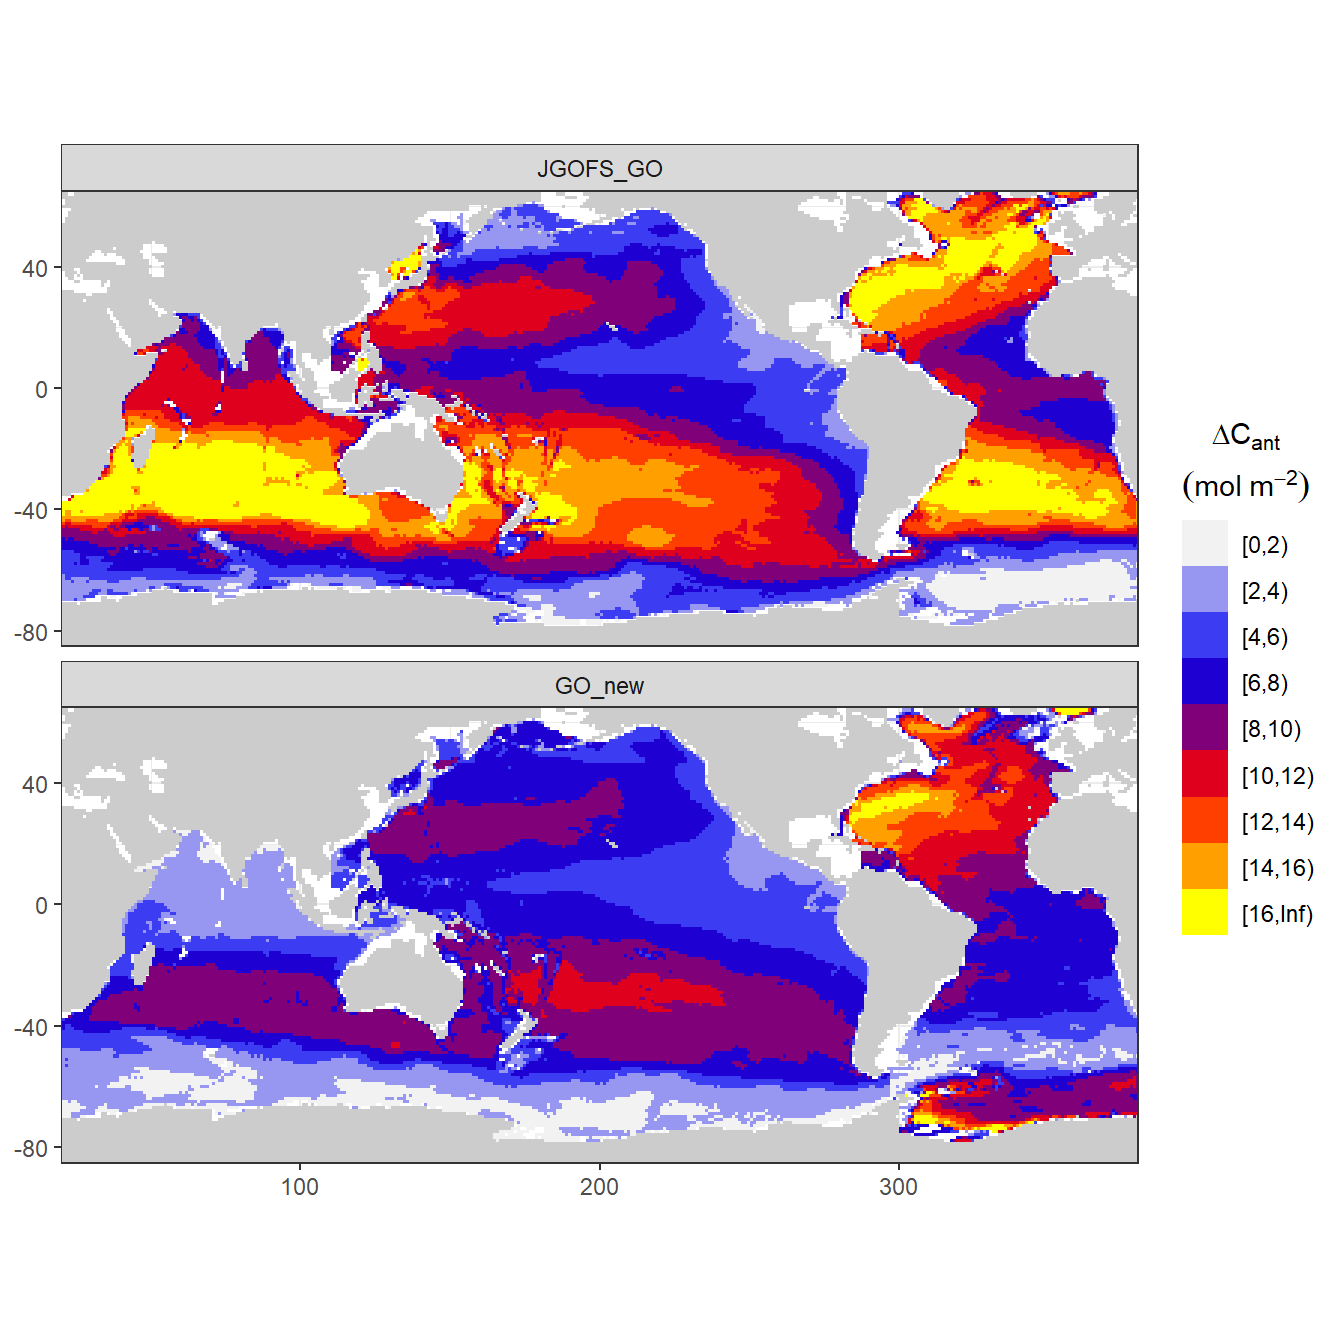
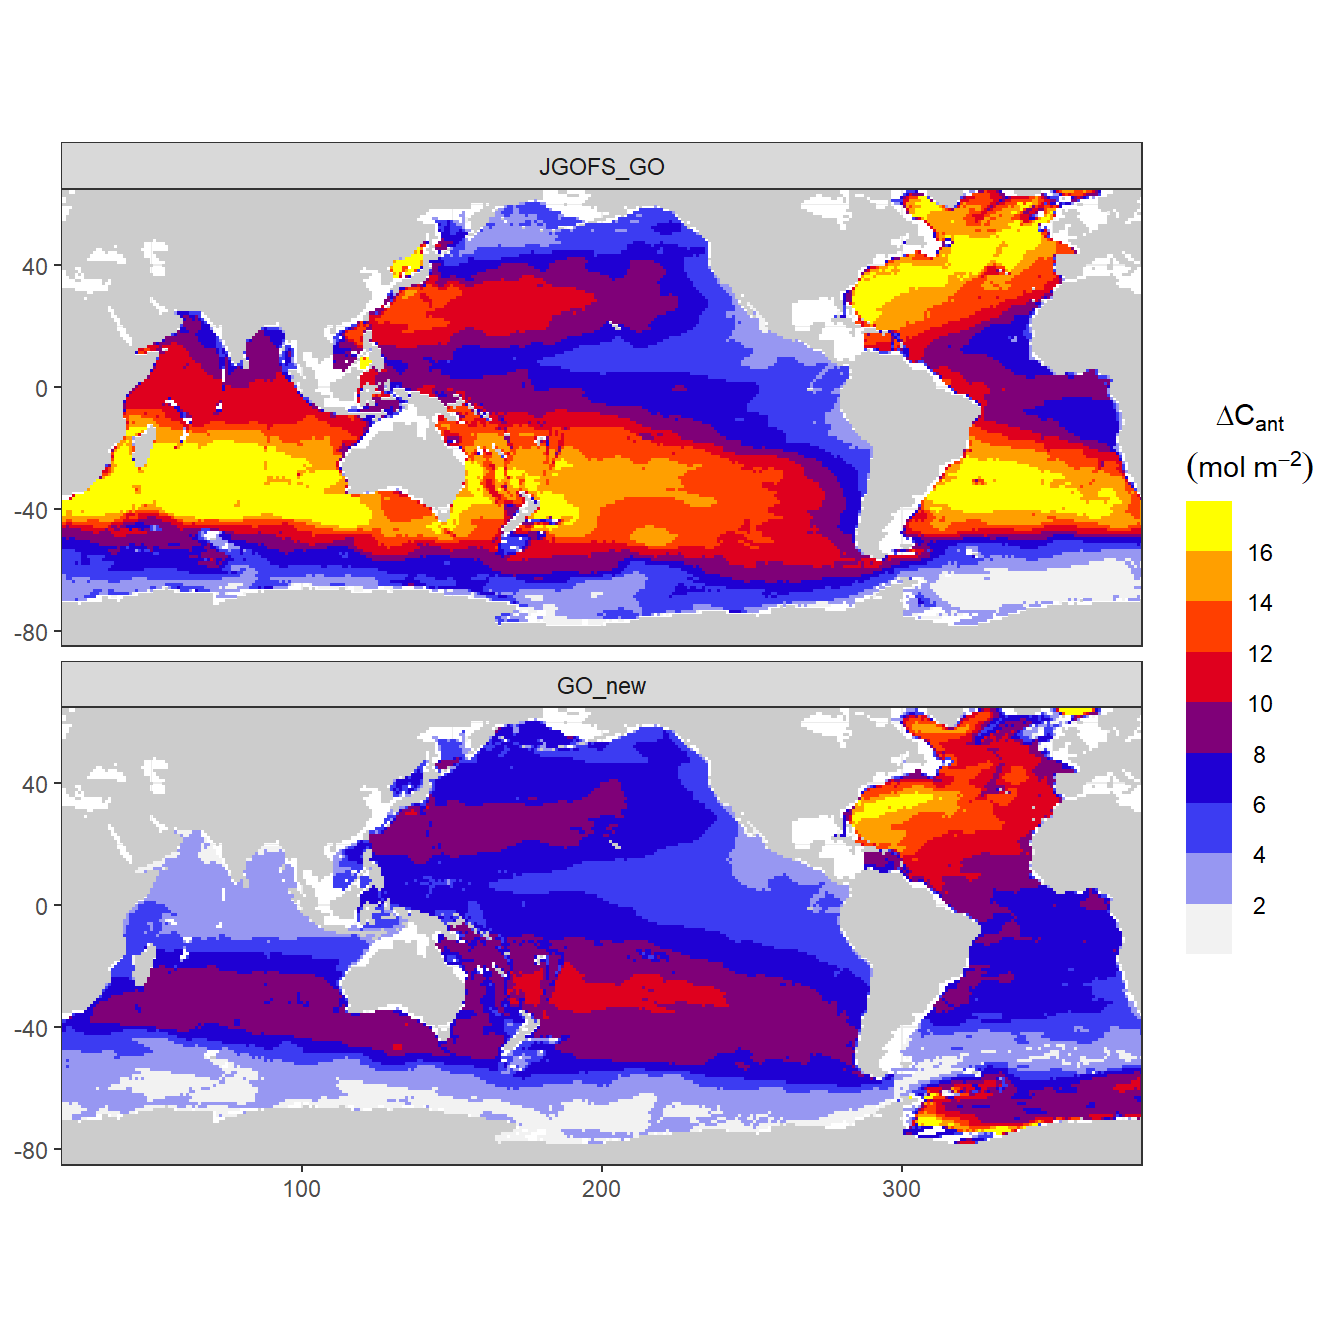
Build site.

diff --git a/docs/analysis_this_study.html b/docs/analysis_this_study.html
@@ -625,16 +625,16 @@ This reproducible <a href="http://rmarkdown.rstudio.com">R Markdown</a> analysis
 <div class="panel panel-default">
 <div class="panel-heading">
 <p class="panel-title">
-<a data-toggle="collapse" data-parent="#workflowr-checks" href="#strongRepositoryversionstrongahrefhttpsgithubcomjensdanielmuellerCanteMLRtree63e987da5e12837ca6cfa503c15f67d6005f041etargetblank63e987da"> <span class="glyphicon glyphicon-ok text-success" aria-hidden="true"></span> <strong>Repository version:</strong> <a href="https://github.com/jens-daniel-mueller/Cant_eMLR/tree/63e987da5e12837ca6cfa503c15f67d6005f041e" target="_blank">63e987d</a> </a>
+<a data-toggle="collapse" data-parent="#workflowr-checks" href="#strongRepositoryversionstrongahrefhttpsgithubcomjensdanielmuellerCanteMLRtree29097d18119f47fddc03a43ccea4d46ee0e6c73dtargetblank29097d1a"> <span class="glyphicon glyphicon-ok text-success" aria-hidden="true"></span> <strong>Repository version:</strong> <a href="https://github.com/jens-daniel-mueller/Cant_eMLR/tree/29097d18119f47fddc03a43ccea4d46ee0e6c73d" target="_blank">29097d1</a> </a>
 </p>
 </div>
[2 lines of base64/hex data omitted]
 <div class="panel-body">
 <p>
 Great! You are using Git for version control. Tracking code development and connecting the code version to the results is critical for reproducibility.
 </p>
 <p>
-The results in this page were generated with repository version <a href="https://github.com/jens-daniel-mueller/Cant_eMLR/tree/63e987da5e12837ca6cfa503c15f67d6005f041e" target="_blank">63e987d</a>. See the <em>Past versions</em> tab to see a history of the changes made to the R Markdown and HTML files.
+The results in this page were generated with repository version <a href="https://github.com/jens-daniel-mueller/Cant_eMLR/tree/29097d18119f47fddc03a43ccea4d46ee0e6c73d" target="_blank">29097d1</a>. See the <em>Past versions</em> tab to see a history of the changes made to the R Markdown and HTML files.
 </p>
 <p>
 Note that you need to be careful to ensure that all relevant files for the analysis have been committed to Git prior to generating the results (you can use <code>wflow_publish</code> or <code>wflow_git_commit</code>). workflowr only checks the R Markdown file, but you know if there are other scripts or data files that it depends on. Below is the status of the Git repository when the results were generated:
@@ -691,6 +691,40 @@ Message
 </tr>
 </thead>
 <tbody>
+<tr>
+<td>
+Rmd
+</td>
+<td>
+<a href="https://github.com/jens-daniel-mueller/Cant_eMLR/blob/29097d18119f47fddc03a43ccea4d46ee0e6c73d/analysis/analysis_this_study.Rmd" target="_blank">29097d1</a>
+</td>
+<td>
+jens-daniel-mueller
+</td>
+<td>
+2020-11-11
+</td>
+<td>
+modified color scale
+</td>
+</tr>
+<tr>
+<td>
+html
+</td>
+<td>
+<a href="https://rawcdn.githack.com/jens-daniel-mueller/Cant_eMLR/3da2eee31f6361ab54c486a2d77babce8bfeb73b/docs/analysis_this_study.html" target="_blank">3da2eee</a>
+</td>
+<td>
+jens-daniel-mueller
+</td>
+<td>
+2020-11-11
+</td>
+<td>
+Build site.
+</td>
+</tr>
 <tr>
 <td>
 Rmd
@@ -2618,6 +2652,7 @@ map +
                      name = expression(atop(Delta*C[ant],
                                            (mol~m^{-2})))) +
   # scale_fill_scico_d(palette = &quot;batlow&quot;, direction = -1) +
+  guides(fill = guide_colorsteps(barheight = unit(6, &quot;cm&quot;))) +
   facet_wrap( ~ eras, ncol = 1)</code></pre>
 <p><img src="figure/analysis_this_study.Rmd/cant_pos_inventory_map-1.png" width="672" style="display: block; margin: auto;" /></p>
 </div>
